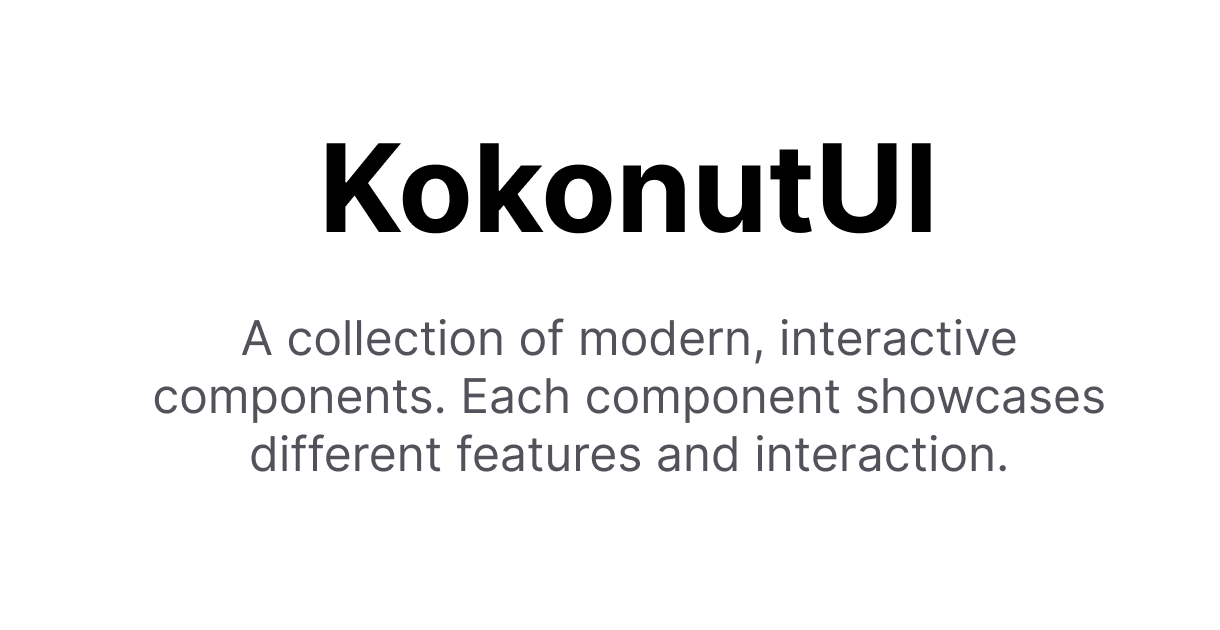
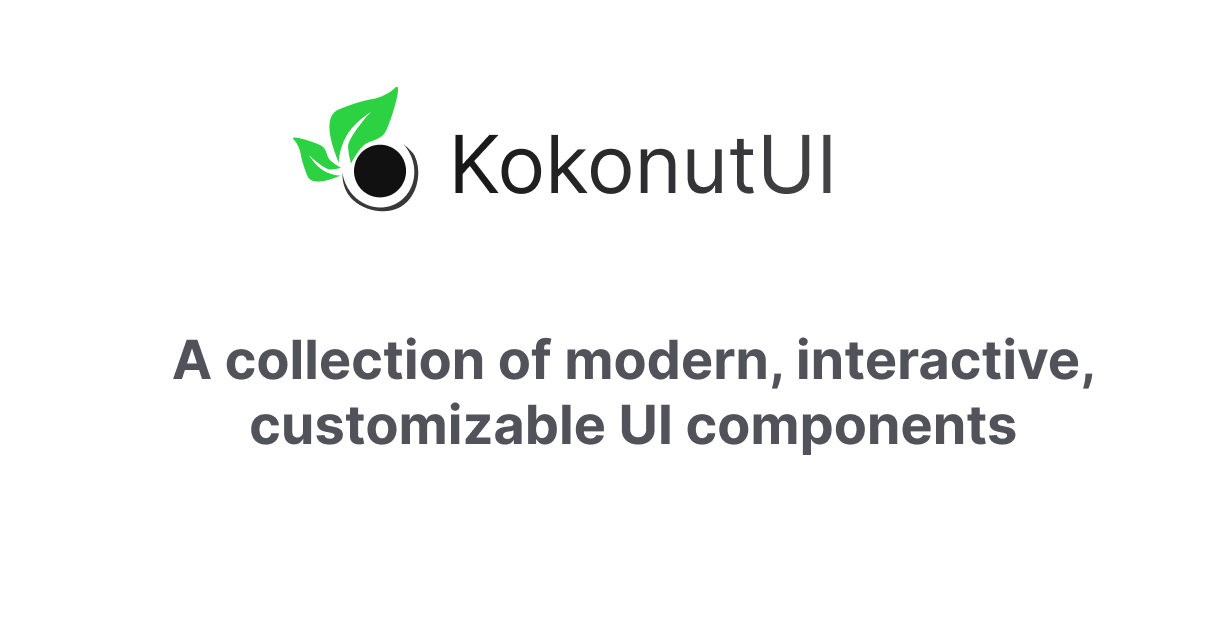
update metadata

Changed region(s): [[0.1246, 0.5127, 0.9033, 0.754], [0.218, 0.1508, 0.7787, 0.3921]]

diff --git a/app/layout.tsx b/app/layout.tsx
@@ -1,4 +1,4 @@
-import type { Metadata } from "next";
+import type { Metadata, Viewport } from "next";
 import localFont from "next/font/local";
 import "./globals.css";
 import { ThemeProvider } from "next-themes";
@@ -6,43 +6,39 @@ import { Analytics } from "@vercel/analytics/react";
 import { Header } from "@/components/header";
 import { cn } from "@/lib/utils";
 import { Footer } from "@/components/layout/footer";
+import { META_THEME_COLORS, siteConfig } from "@/app/config/site";
 
 const geistSans = localFont({
     src: "./fonts/GeistVF.woff",
     variable: "--font-geist-sans",
     weight: "100 900",
 });
-const geistMono = localFont({
-    src: "./fonts/GeistMonoVF.woff",
-    variable: "--font-geist-mono",
-    weight: "100 900",
-});
 
 export const metadata: Metadata = {
-    title: "Kokonut - Free UI Components",
-    description:
-        "Kokonut is a free UI components library for Next.js and React.",
-    metadataBase: new URL("https://kokonut.dev"),
-    applicationName: "Kokonut",
-    category: "development",
-    keywords: ["ui", "components", "library", "next.js", "react", "ai"],
+    title: `${siteConfig.name} - ${siteConfig.description}`,
+    description: siteConfig.description,
+    metadataBase: new URL(siteConfig.url),
+    applicationName: siteConfig.name,
+    keywords: ["ui", "components", "Tailwind CSS", "Next.js", "shadcn"],
     robots: "index, follow",
     authors: [{ name: "Dorian Baffier", url: "https://x.com/dorian_baffier" }],
+    creator: "Dorian Baffier",
     openGraph: {
-        title: "Kokonut - Free UI Components",
-        description:
-            "Kokonut is a free UI components library for Next.js and React.",
-        url: "https://kokonut.dev",
-        siteName: "Kokonut",
+        title: siteConfig.name,
+        description: siteConfig.description,
+        url: siteConfig.url,
+        siteName: siteConfig.name,
     },
     twitter: {
         card: "summary_large_image",
-        site: "@kokonutdev",
         creator: "@dorian_baffier",
-        title: "Kokonut - Free UI Components",
-        description:
-            "Kokonut is a free UI components library for Next.js and React.",
+        title: siteConfig.name,
+        description: siteConfig.description,
     },
+};
+
+export const viewport: Viewport = {
+    themeColor: META_THEME_COLORS.light,
 };
 
 export default function RootLayout({
@@ -55,7 +51,6 @@ export default function RootLayout({
             <body
                 className={cn(
                     geistSans.variable,
-                    geistMono.variable,
                     geistSans.className,
                     "antialiased"
                 )}

diff --git a/components/icons/arrow6.tsx b/components/icons/arrow6.tsx
@@ -1,0 +1,28 @@
+import React from "react";
+export type Arrow25Element = SVGSVGElement;
+export type Arrow25Props = React.SVGAttributes<SVGSVGElement>;
+
+const Arrow25 = React.forwardRef<Arrow25Element, Arrow25Props>(
+    (props, forwardedRef) => (
+        <svg
+            width="38"
+            height="227"
+            viewBox="0 0 38 227"
+            fill="none"
+            xmlns="http://www.w3.org/2000/svg"
+            ref={forwardedRef}
+            {...props}
+        >
+            <title>Arrow</title>
+            <path
+                fillRule="evenodd"
+                clipRule="evenodd"
+                d="M0.0822469 0.227534C0.0822469 0.361804 0.793904 1.27486 1.65324 2.28189C7.8163 9.45194 17.9806 26.1418 22.8681 37.0983C25.8355 43.7447 28.8029 53.9492 30.5216 63.2676C33.4487 79.2055 34.9526 102.837 34.0127 118.184C32.5491 141.816 27.5945 166.361 20.2901 185.978C19.4039 188.287 17.2959 193.51 15.5906 197.552C13.2812 203.057 12.4621 204.655 12.3278 204.077C12.2607 203.621 11.9384 201.633 11.643 199.673C10.7971 194.061 9.22613 186.609 8.51449 184.608C7.69544 182.46 6.71526 181.842 5.45311 182.688C4.79965 183.127 4.67882 185.526 5.09059 189.885C6.23189 201.58 6.55416 218.887 5.77538 224.339C5.57398 225.775 5.61424 225.936 6.29902 226.192C7.76258 226.715 8.6085 225.802 9.03817 223.197C9.1993 222.083 9.29329 221.989 10.3406 221.989C11.1597 221.989 11.643 221.734 12.2607 220.982C12.7172 220.431 13.1066 219.773 13.1066 219.545C13.1066 218.928 17.2824 213.382 20.9883 209.112C22.7204 207.125 27.0574 202.56 30.6693 198.948C37.45 192.141 37.7723 191.684 36.8995 190.046C36.4698 189.227 34.9794 188.77 33.9724 189.133C32.9654 189.522 19.8873 202.654 16.6916 206.508C15.3892 208.105 14.0868 209.663 13.8182 209.931C13.2946 210.482 13.4288 210.187 18.4775 197.74C23.9154 184.245 26.5337 176.323 29.2057 165.112C33.5696 146.663 35.7582 130.242 36.1207 112.639C36.4832 96.1505 34.6169 74.9626 31.4884 60.3539C28.9775 48.6187 26.3323 41.0592 21.606 31.7946C15.7383 20.4218 6.3796 5.97433 1.69352 1.06003C0.753621 0.120131 0.0688477 -0.282687 0.0688477 0.214114L0.0822469 0.227534Z"
+                fill="currentColor"
+            />
+        </svg>
+    )
+);
+Arrow25.displayName = "Arrow25";
+
+export default Arrow25;

diff --git a/app/(root)/page.tsx b/app/(root)/page.tsx
@@ -6,6 +6,7 @@ import Card_01 from "@/components/cards/card-01";
 import Pricing_01 from "@/components/pricing/pricing-01";
 import { CommandRotator } from "@/components/command-rotator";
 import Btn03 from "@/components/buttons/btn-03";
+import Arrow25 from "@/components/icons/arrow6";
 
 export default function Home() {
     const categories = [
@@ -66,20 +67,15 @@ export default function Home() {
                             <div className="h-[0.5px] w-full bg-gradient-to-r from-zinc-400 to-zinc-200 dark:from-zinc-600 dark:to-zinc-800 mt-2 rounded-full" />
                         </div>
 
-                        <p className="text-base sm:text-lg text-zinc-600 dark:text-zinc-400 max-w-2xl mx-auto leading-relaxed px-4 sm:px-0">
-                            A collection of modern, interactive, customizable UI
-                            components built with shadcn & TailwindCSS. Thanks
-                            to{" "}
-                            <Link
-                                href="https://ui.shadcn.com/"
-                                target="_blank"
-                                rel="noopener noreferrer"
-                                className="text-zinc-900 dark:text-white hover:underline"
-                            >
-                                @shadcn CLI
-                            </Link>
-                            , installation is easy.
-                        </p>
+                        <div className="relative">
+                            <p className="text-base sm:text-lg text-zinc-600 dark:text-zinc-400 max-w-2xl mx-auto leading-relaxed px-4 sm:px-0">
+                                A collection of modern, interactive,
+                                customizable UI components built with shadcn &
+                                TailwindCSS. Easy to install
+                                <Arrow25 className="inline-block ml-1 w-6 h-6 align-middle mt-1" />
+                            </p>
+                        </div>
+
                         <div className="flex items-center justify-center gap-2 mt-8">
                             <div className="relative group">
                                 <div className="flex items-center gap-2">

diff --git a/components/header.tsx b/components/header.tsx
@@ -18,7 +18,7 @@ export function Header() {
                     backdrop-blur-md
                     border-x border-b 
                     border-[rgba(230,230,230,0.7)] dark:border-[rgba(70,70,70,0.7)]
-                    w-[380px]
+                    min-w-[380px]
                     rounded-b-[28px]
                     px-4 py-2.5
                     relative
@@ -28,7 +28,10 @@ export function Header() {
                     <div className="relative z-10 flex items-center justify-around w-full gap-2">
                         <div className="flex items-center gap-3">
                             <div className="flex items-center gap-2">
-                                <Link href="/">
+                                <Link
+                                    href="/"
+                                    className="flex items-center gap-2"
+                                >
                                     <Image
                                         src="/logo.svg"
                                         alt="logo"
@@ -43,6 +46,9 @@ export function Header() {
                                         height={32}
                                         className="block dark:hidden"
                                     />
+                                    <span className="hidden sm:block font-semibold">
+                                        kokonut
+                                    </span>
                                 </Link>
                                 <span className="text-xs font-medium px-1.5 py-0.5 rounded-full bg-amber-100 dark:bg-amber-900 text-amber-700 dark:text-amber-200">
                                     Beta

diff --git a/app/sitemap.ts b/app/sitemap.ts
@@ -10,5 +10,35 @@ export default function sitemap(): MetadataRoute.Sitemap {
             changeFrequency: "monthly",
             priority: 1,
         },
+        {
+            url: "https://kokonut.dev/components/ai-input",
+            lastModified: currentDate,
+            changeFrequency: "monthly",
+            priority: 0.5,
+        },
+        {
+            url: "https://kokonut.dev/components/buttons",
+            lastModified: currentDate,
+            changeFrequency: "monthly",
+            priority: 0.5,
+        },
+        {
+            url: "https://kokonut.dev/components/cards",
+            lastModified: currentDate,
+            changeFrequency: "monthly",
+            priority: 0.5,
+        },
+        {
+            url: "https://kokonut.dev/components/pricing",
+            lastModified: currentDate,
+            changeFrequency: "monthly",
+            priority: 0.5,
+        },
+        {
+            url: "https://kokonut.dev/components/texts",
+            lastModified: currentDate,
+            changeFrequency: "monthly",
+            priority: 0.5,
+        },
     ];
 }

diff --git a/app/config/site.ts b/app/config/site.ts
@@ -1,0 +1,18 @@
+export const siteConfig = {
+    name: "KokonutUI",
+    url: "https://kokonut.dev",
+    ogImage: "https://kokonut.dev/og.jpg",
+    description:
+        "A collection of modern, interactive, customizable UI components built with Shadcn & Tailwind CSS. Easy to install",
+    links: {
+        twitter: "https://twitter.com/dorian_baffier",
+        github: "https://github.com/kokonut-labs/kokonutui",
+    },
+};
+
+export type SiteConfig = typeof siteConfig;
+
+export const META_THEME_COLORS = {
+    light: "#fafafa",
+    dark: "#09090b",
+};

diff --git a/app/components/pricing/page.tsx b/app/components/pricing/page.tsx
@@ -3,6 +3,13 @@ import { Pricing_02 } from "@/components/pricing/pricing-02";
 import { Pricing_03 } from "@/components/pricing/pricing-03";
 import { Pricing_04 } from "@/components/pricing/pricing-04";
 import { ViewComponents } from "@/components/ViewComponents";
+import type { Metadata } from "next";
+
+export const metadata: Metadata = {
+    title: "Pricing",
+    description:
+        "A collection of pricing components to use and customize. Built with Tailwind CSS and Shadcn.",
+};
 
 export default function Pricing_View() {
     const components = [

diff --git a/app/components/ai-input/page.tsx b/app/components/ai-input/page.tsx
@@ -19,6 +19,13 @@ import AIInput_18 from "@/components/inputs/ai-input-18";
 import AIInput_19 from "@/components/inputs/ai-input-19";
 import AIInput_20 from "@/components/inputs/ai-input-20";
 import { ViewComponents } from "@/components/ViewComponents";
+import type { Metadata } from "next";
+
+export const metadata: Metadata = {
+    title: "AI Input",
+    description:
+        "A collection of AI input components to use and customize. Built with Tailwind CSS and Shadcn.",
+};
 
 export default function AIInput() {
     const components = [

diff --git a/app/components/texts/page.tsx b/app/components/texts/page.tsx
@@ -5,6 +5,13 @@ import { Text_04 } from "@/components/texts/text-04";
 import { Text_05 } from "@/components/texts/text-05";
 import { Text_06 } from "@/components/texts/text-06";
 import { ViewComponents } from "@/components/ViewComponents";
+import type { Metadata } from "next";
+
+export const metadata: Metadata = {
+    title: "Text",
+    description:
+        "A collection of text components to use and customize. Built with Tailwind CSS and Shadcn.",
+};
 
 export default function Texts() {
     const components = [

diff --git a/app/components/buttons/page.tsx b/app/components/buttons/page.tsx
@@ -9,6 +9,13 @@ import Btn08 from "@/components/buttons/btn-08";
 import Btn09 from "@/components/buttons/btn-09";
 import Btn10 from "@/components/buttons/btn-10";
 import { ViewComponents } from "@/components/ViewComponents";
+import type { Metadata } from "next";
+
+export const metadata: Metadata = {
+    title: "Button",
+    description:
+        "A collection of button components to use and customize. Built with Tailwind CSS and Shadcn.",
+};
 
 export default function Buttons_View() {
     const components = [

diff --git a/app/components/cards/page.tsx b/app/components/cards/page.tsx
@@ -4,6 +4,14 @@ import Card_03 from "@/components/cards/card-03";
 import Card_04 from "@/components/cards/card-04";
 import { ViewComponents } from "@/components/ViewComponents";
 
+import type { Metadata } from "next";
+
+export const metadata: Metadata = {
+    title: "Card",
+    description:
+        "A collection of card components to use and customize. Built with Tailwind CSS and Shadcn.",
+};
+
 export default function Cards_View() {
     const components = [
         {

diff --git a/app/components/layout.tsx b/app/components/layout.tsx
@@ -1,4 +1,13 @@
 import ComponentNav from "@/components/component-nav";
+import type { Metadata } from "next";
+import { siteConfig } from "../config/site";
+
+export const metadata: Metadata = {
+    title: {
+        default: `${siteConfig.name} - Components`,
+        template: `%s | ${siteConfig.name}`,
+    },
+};
 
 const categories = [
     {
